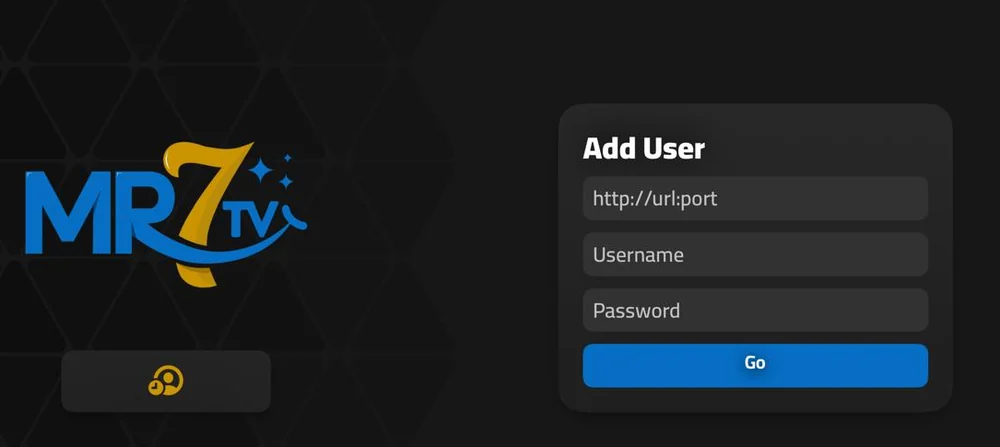
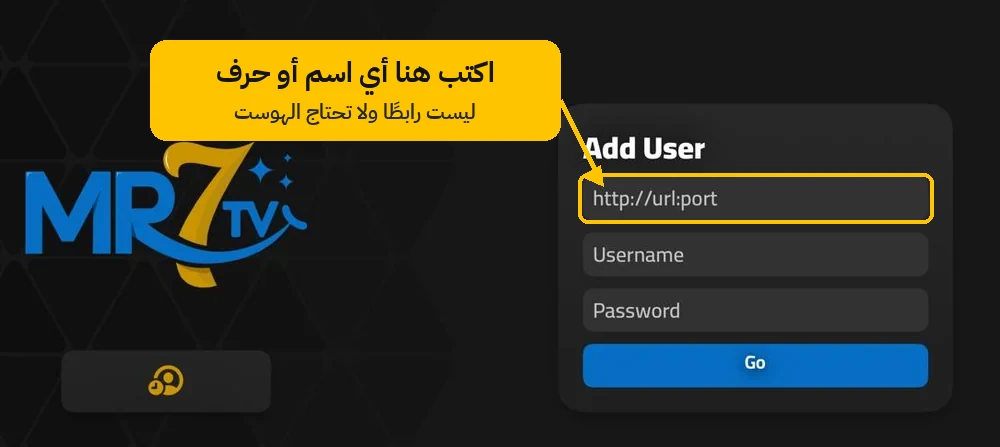
آيفون/آيباد: الخانة الأولى في Add User ليست رابط هوست
شاشة Add User في VAR Player (بعد رمز 55555) خانتها الأولى تقبل أي اسم أو حرف،
فلا يحتاج العميل لصق رابط الهوست. صُحّح النص، وحُذف تنبيه http/https من هذه
الخطوة، وأُضيف على الصورة توضيح يشير إلى الخانة.

Claude-Session: https://claude.ai/code/session_01HKREw3m2LMSpt682anJb9e

Changed region(s): [[0.124, 0.0872, 0.589, 0.349], [0.558, 0.349, 0.961, 0.5235]]

diff --git a/index.html b/index.html
@@ -742,10 +742,12 @@ const DEVICES = {
       html: '<p>في خانة <b dir="ltr">Server Code</b> اكتب هذا الرمز ثم اضغط <b dir="ltr">Go</b>:</p>'
         + COPY("55555", "رمز الخادم") },
     { title: "أدخل بيانات اشتراكك", img: "/static/img/ios-var-adduser.webp",
-      html: '<p>تظهر شاشة <b dir="ltr">Add User</b> بثلاث خانات، عبّئها كما وصلتك ثم اضغط <b dir="ltr">Go</b>:</p>'
-        + '<div class="fields"><div class="f"><span dir="ltr">http://url:port</span><code>رابط الهوست كما وصلك</code></div>'
+      html: '<p>تظهر شاشة <b dir="ltr">Add User</b> بثلاث خانات. الخانة الأولى (المكتوب فيها <span dir="ltr">http://url:port</span>) '
+        + '<b>ليست رابطًا ولا تحتاج الهوست</b>: اكتب فيها أي شيء، اسمك أو حرفًا واحدًا. ثم اسم المستخدم وكلمة المرور كما وصلاك، واضغط <b dir="ltr">Go</b>:</p>'
+        + '<div class="fields"><div class="f"><span>الخانة الأولى</span><code>أي اسم أو حرف (ليس رابطًا)</code></div>'
         + '<div class="f"><span dir="ltr">Username</span><code>اسم المستخدم</code></div>'
-        + '<div class="f"><span dir="ltr">Password</span><code>كلمة المرور</code></div></div>' + HTTP_NOTE + CREDS }
+        + '<div class="f"><span dir="ltr">Password</span><code>كلمة المرور</code></div></div>'
+        + '<div class="note">الرمز <b dir="ltr">55555</b> الذي كتبته في الخطوة السابقة هو الذي يربط التطبيق بالخادم، فلا تلصق في الخانة الأولى أي رابط هوست.</div>' + CREDS }
   ]},
   android: { icon: "phone", name: "جوال أندرويد", sub: "NEXT+ أو IPTV Smarters Pro", choose: {
     title: "اختر التطبيق",
